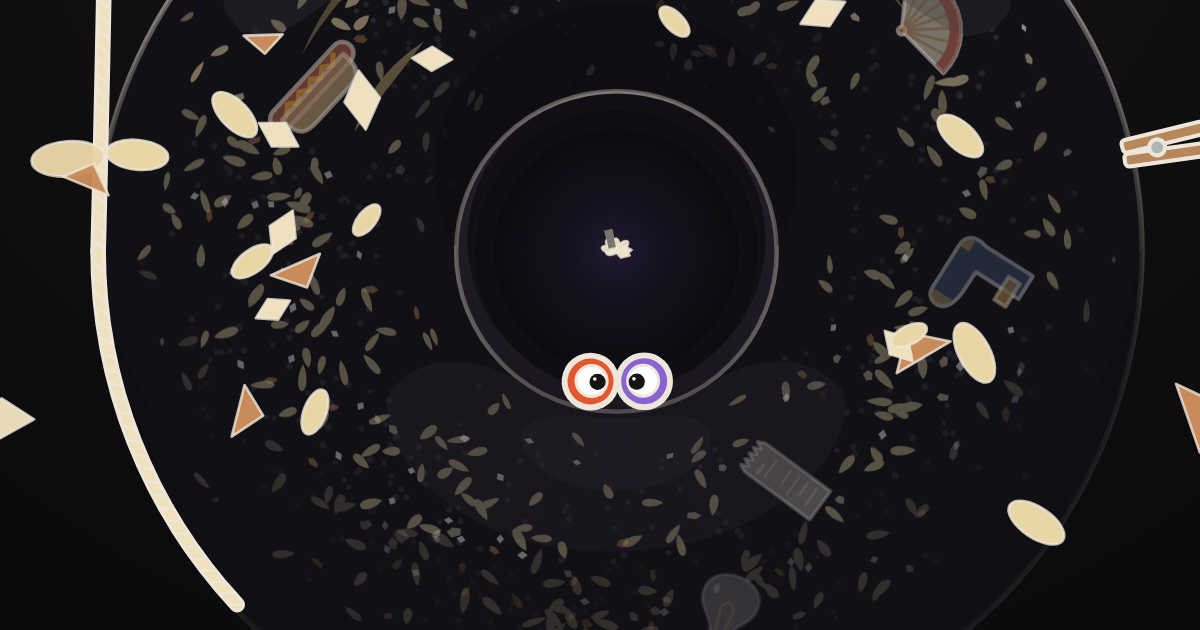
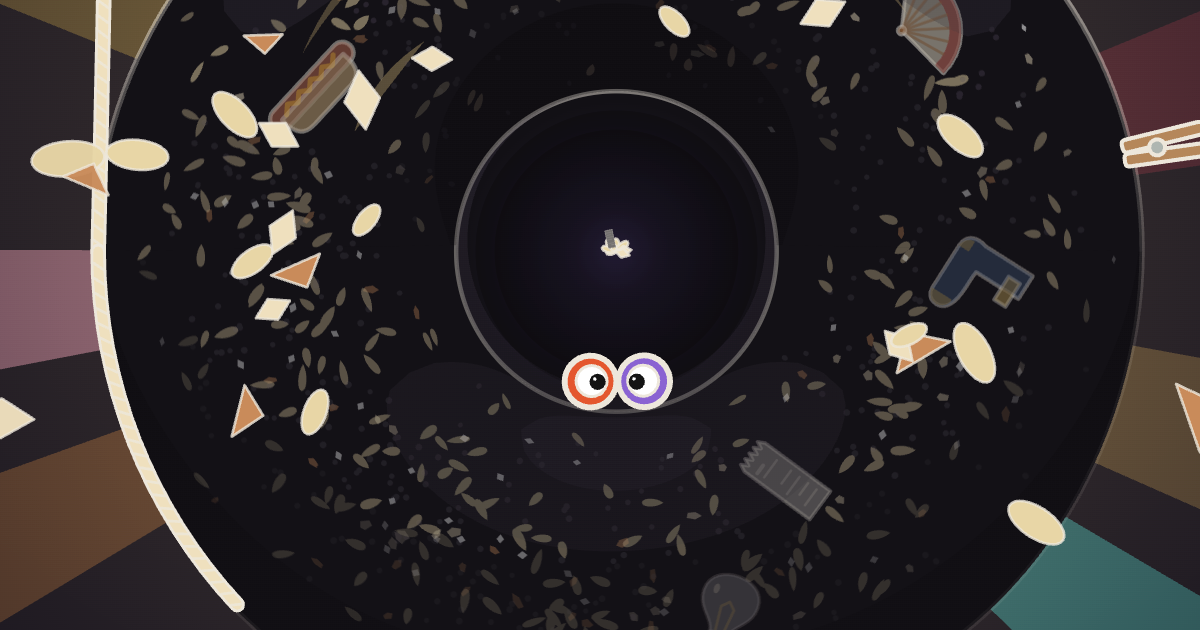
craft(everything): in the peak, the dark fills with every colour as the bagel gives everything back
The loudest passage of the cue was the darkest picture in the show. Now each thing the bagel gives back comes out
with a beam of its own life's colour, round the whole circle, flaring and settling to a glow that stays, until the
bagel stands black in a radiance of every life she has been; as it closes into the washer's window, the radiance
draws in and dims. The beams are clipped to the frame (the close shots had cost 14 ms a frame). The share card,
taken in the peak, is rendered again, and so is its quadrant of the Shows page's card.

Changed region(s): [[0.0, 0.0, 0.2158, 1.0], [0.8017, 0.0, 1.0, 1.0]]

diff --git a/apps/rube/src/shows/versions/come-recover/all-at-once/void/radiance.ts b/apps/rube/src/shows/versions/come-recover/all-at-once/void/radiance.ts
@@ -1,0 +1,117 @@
+import { mixHex } from '../../../../../parts'
+import { frame, scenery } from '../kit'
+import { DOJO, HIBACHI, HOME, HOTDOG, ROCKS, STAR, VOID } from '../worlds'
+import { BAGEL, bagelPose, THING_WORLD } from './bagel'
+import { GIVEN, RELEASE, T_OUT, turnAt } from './peakClock'
+
+/**
+ * The dark fills with every colour.
+ *
+ * The peak is the loudest passage of the cue, and it was the darkest picture in the show: the black bagel in the
+ * black. Now, as the bagel gives back everything it swallowed, each thing comes out of the hole with a beam of its
+ * own life's colour from the hole: a trophy and a flashbulb in the carpet's red and gold, a fan
+ * and a shoe in the dojo's lacquer, the mustard and the hot dog in their pink and yellow, Raccacoonie's spatula and
+ * shrimp in the griddle's flame, a pebble in the canyon's sand, the laundromat's socks and receipts in its lantern
+ * gold and tile. Each beam flares as its thing bursts out and settles to a glow that stays, so beat by beat the
+ * dark behind the bagel fills, until it stands black against a radiance of every life she has been. The beams wheel
+ * slowly with the bagel as it turns back. When the line runs out and the bagel coasts and closes into a washer's
+ * window, they draw in toward it and dim, and through the window it is home.
+ *
+ * Drawn behind the bagel, so it stands backlit in them and they come from behind its rim. Each beam is a narrow
+ * share of the frame and they rise one a beat, a little under 2.5 a second, so the frame's light never swings as a
+ * flash does; the settled glow is soft.
+ */
+
+const COLOUR: Record<string, string[]> = {
+  laundromat: [HOME.gold, mixHex(HOME.tile, HOME.gold, 0.25)],
+  premiere: [STAR.carpet, STAR.gold],
+  dojo: [DOJO.lacquer, DOJO.gold],
+  hotdog: ['#F59AB0', HOTDOG.mustard],
+  hibachi: [HIBACHI.flame, HIBACHI.flameHot],
+  rocks: [ROCKS.canyon, ROCKS.sand],
+  everywhere: ['#E85FD0', '#3FE0D0'],
+}
+
+interface Beam {
+  at: number
+  dir: number
+  color: string
+  /** How wide it opens, radians either side of its line. */
+  half: number
+}
+
+const BEAMS: Beam[] = GIVEN.map((g, i) => {
+  const set = COLOUR[THING_WORLD[g.thing]] ?? COLOUR.laundromat
+  // Round the whole circle, a golden step each, so the radiance fills all the way round and not only the side things
+  // are thrown to.
+  return { at: g.at, dir: -Math.PI / 2 + i * 2.399963, color: set[i % set.length], half: 0.075 + 0.05 * ((i * 0.618) % 1) }
+})
+const FROM = BEAMS.length ? BEAMS[0].at - 0.1 : Infinity
+
+const rgba = (hex: string, a: number): string => {
+  const n = parseInt(hex.slice(1), 16)
+  return `rgba(${(n >> 16) & 255}, ${(n >> 8) & 255}, ${n & 255}, ${Math.max(0, Math.min(1, a))})`
+}
+const ss = (u: number): number => {
+  const x = Math.max(0, Math.min(1, u))
+  return x * x * (3 - 2 * x)
+}
+
+/** A beam's strength `x` seconds after its thing came out: a flare that settles to a glow that stays. */
+const strength = (x: number): number => (x <= 0 ? 0 : ss(x / 0.12) * (0.45 + 0.55 * Math.exp(-x / 0.55)))
+
+/** How much of the radiance is left as the bagel coasts and closes into the window: it draws in and dims. */
+const closing = (t: number): number => ss((t - RELEASE) / (T_OUT - RELEASE))
+
+export const radiance = scenery<null>({
+  name: 'radiance',
+  draw: (p, _s, c) => {
+    const t = c.t
+    if (t < FROM || t > T_OUT + 0.05) return
+    const pose = bagelPose(t)
+    const k = c.k
+    const f = frame(p, k)
+    const ctx = p.drawingContext as CanvasRenderingContext2D
+    const cx = pose.dx * k
+    const cy = pose.dy * k
+    // Far enough to leave the frame whatever the camera is doing.
+    const reach = Math.hypot(f.x1 - f.x0, f.y1 - f.y0) * k + BAGEL.r * pose.scale * k
+    const inner = BAGEL.hole * pose.scale * k
+    const close = closing(t)
+    const wheel = 0.22 * (turnAt(t) - turnAt(FROM))
+    ctx.save()
+    // Only what is in the frame is painted: the beams reach far past it.
+    ctx.beginPath()
+    ctx.rect(f.x0 * k, f.y0 * k, (f.x1 - f.x0) * k, (f.y1 - f.y0) * k)
+    ctx.clip()
+    ctx.globalCompositeOperation = 'screen'
+    for (const b of BEAMS) {
+      const a = strength(t - b.at) * (1 - 0.75 * close)
+      if (a <= 0.004) continue
+      const dir = b.dir - wheel
+      const half = b.half * (1 - 0.55 * close)
+      const len = reach * (1 - 0.6 * close)
+      const g = ctx.createRadialGradient(cx, cy, inner, cx, cy, len)
+      g.addColorStop(0, rgba(b.color, 0.85 * a))
+      g.addColorStop(0.35, rgba(b.color, 0.5 * a))
+      g.addColorStop(1, rgba(b.color, 0))
+      ctx.fillStyle = g
+      ctx.beginPath()
+      ctx.moveTo(cx, cy)
+      ctx.arc(cx, cy, len, dir - half, dir + half)
+      ctx.closePath()
+      ctx.fill()
+    }
+    // A soft bloom of all of them together round the bagel, so the dark round it is lit and not only striped.
+    const lit = Math.min(1, BEAMS.filter((b) => t > b.at).length / 12) * (1 - 0.6 * close)
+    if (lit > 0.01) {
+      const R = BAGEL.r * pose.scale * k
+      const g = ctx.createRadialGradient(cx, cy, R * 0.6, cx, cy, R * 2.6)
+      g.addColorStop(0, rgba(mixHex(VOID.rimLight, VOID.glow, 0.35), 0.22 * lit))
+      g.addColorStop(1, rgba(VOID.glow, 0))
+      ctx.fillStyle = g
+      ctx.fillRect(f.x0 * k, f.y0 * k, (f.x1 - f.x0) * k, (f.y1 - f.y0) * k)
+    }
+    ctx.restore()
+  },
+})

diff --git a/apps/rube/src/shows/versions/come-recover/all-at-once/score.ts b/apps/rube/src/shows/versions/come-recover/all-at-once/score.ts
@@ -24,6 +24,7 @@ import { kindness, KINDNESS_AT } from './home/kindness'
 import { GIFT_LOOKS } from './home/kindness-draw'
 import { ledge } from './rocks/ledge'
 import { film, LOOKS, type Look } from './film'
+import { radiance } from './void/radiance'
 import { JOY_EYE, peak, PEAK_AT } from './void/peak'
 import { finale, FINALE_AT } from './home/finale'
 import { FIRST as LIVES_FIRST, LAST_OUT as LIVES_OUT } from './home/finale-lives'
@@ -89,7 +90,14 @@ const SETS = (roomState: RoomState): Partial<Record<WorldKey, WorldSet>> => ({
     after: [standing(credits, 0, 0, box(-12, -8, 44, 4, 2), null, DURATION)],
   },
   // Jobu's bagel, where the pull draws everything in and the peak spins it all back out.
-  void: { scenery: [standing(bagel, BAGEL.at[0], BAGEL.at[1], box(BAGEL.at[0] - 24, BAGEL.at[1] - 24, BAGEL.at[0] + 24, BAGEL.at[1] + 24, 2), null, DURATION)], after: [] },
+  // Behind it, in the peak, the radiance of every life it gives back.
+  void: {
+    scenery: [
+      standing(radiance, BAGEL.at[0], BAGEL.at[1], box(BAGEL.at[0] - 24, BAGEL.at[1] - 24, BAGEL.at[0] + 24, BAGEL.at[1] + 24, 2), null, DURATION),
+      standing(bagel, BAGEL.at[0], BAGEL.at[1], box(BAGEL.at[0] - 24, BAGEL.at[1] - 24, BAGEL.at[0] + 24, BAGEL.at[1] + 24, 2), null, DURATION),
+    ],
+    after: [],
+  },
 })
 
 /**

diff --git a/apps/rube/src/shows/versions/come-recover/ALL_AT_ONCE.md b/apps/rube/src/shows/versions/come-recover/ALL_AT_ONCE.md
@@ -150,7 +150,7 @@ Times are show seconds. The fight's pulse is `fight(k)` (142 to 200 s), the fall
 | 200.16 | the drop | the rocks | Silence. Two stones on a ledge over a vast canyon, lumpy and flat-bottomed, the colour drained out of them: Evelyn's with her eye, Joy's beside it, where Waymond was. Pebbles fall from the lip and take forever to land. Joy's stone teeters forward on its flat underside (207.56, 208.36) and rolls out to the brink (209.96). On 213.96, the strongest note in the quiet, it goes over. Evelyn rolls to where she was (214.76), flinches back (216.36), and goes after her (219.56). |
 | 220 to 241.8 | a soft swell | the rocks | The long way down, on the beats, ledge by ledge. The camera goes over the brink after her and stays close, the wall's strata going up past. On a bench halfway down Joy is waiting, and Evelyn comes to rest against her (226.56) in a close two-shot, looking at her: where the stones touch, each one's colour comes back first and spreads over it. Joy goes on (227.76) and the camera goes down the gorge with them, Joy a bound ahead. On the long talus it draws back for a breath, the canyon most of the frame and the two of them small on the scree, then comes in again for the last bounds. At the bottom a dark ring lies in the sand: the bagel. Joy drops into it, and on 241.76 Evelyn follows. |
 | 241.76 | a breath | the dark | They fall into the bagel's hole. Joy is drawn up into its dark, shrinking and dimming, and Evelyn holds her at the lip. |
-| 247.35 | the peak | the dark | A line comes down from a pulley high above: Waymond's. He drops as the counterweight, and on every beat the line turns the bagel backwards, a ratchet kick of the whole crust. On 118½ Evelyn heaves back, and on 122 Joy pops out of the dark. From 123 everything the bagel swallowed bursts back out of the hole, one thing a beat, last in first out, each with a googly eye, and a spray of seeds goes out on every eighth. On 136 an eye rises out of the hole and lands on Joy. The bagel shrinks as it gives, until its hole is exactly a washer's window, and the hole fills with glass light. |
+| 247.35 | the peak | the dark | A line comes down from a pulley high above: Waymond's. He drops as the counterweight, and on every beat the line turns the bagel backwards, a ratchet kick of the whole crust. On 118½ Evelyn heaves back, and on 122 Joy pops out of the dark. From 123 everything the bagel swallowed bursts back out of the hole, one thing a beat, last in first out, each with a googly eye, and a spray of seeds goes out on every eighth. On 136 an eye rises out of the hole and lands on Joy. The bagel shrinks as it gives, until its hole is exactly a washer's window, and the hole fills with glass light. As each thing comes out, a beam of its own life's colour shoots from the hole and stays: the carpet's red and gold, the dojo's lacquer, the hot dog's pink and mustard, the griddle's flame, the canyon's sand, the laundromat's lantern gold. Beat by beat the dark fills, until the bagel stands black in a radiance of every life she has been, wheeling slowly as it turns back. As it closes into the window, the radiance draws in and dims. |
 | 264.14 | the peak's end | home | Through the window: they are inside the drum of the washer by the door, where the morning started. The cycle ends, the door swings open (268.39), and they drop out. Waymond leaps the foot lever and touches Joy, and the touch runs through to Evelyn. |
 | 275.2 | a hush | home | The camera closes slowly on the three of them together at the washer's foot, the window's glow behind them, and holds. Joy nestles against her mother on a soft note (279.84). |
 | 282.2 | home's pulse | home | The family portrait. A wooden box camera with a bellows stands on a tripod by the door, facing them. Joy and Waymond straighten up on two small hops. Evelyn rolls to a foot switch under the window and presses it on 286.20: a string of lanterns over the family lights one a beat, and the camera draws back to take in the whole portrait. The self-timer's red lamp blinks faster and faster while she hurries back beside Joy (290.38). |
@@ -785,6 +785,15 @@ The notes went back to the builders who made each part, who still had their cont
     A panel drawn at the skins' finest detail (34 px a cell or more, so the first splits on a large stage) keeps the
     whole look.
   - The checks' band for widescreen now covers the surf's glimpses of the movie star's and the dojo's lives.
+- **A director's pass: the dark fills with every colour.** The peak is the loudest passage of the cue, and it was the
+  darkest picture in the show: the black bagel in the black, the same frame for 17 s. Now everything the bagel gives
+  back comes out with a beam of its life's colour behind it (`void/radiance.ts`, by `THING_WORLD`), round the whole
+  circle a golden step apart, so the radiance fills on every side and not only where things are thrown. Each beam
+  flares as it comes and settles to a glow that stays, and they wheel with a fifth of the bagel's turn. When the line
+  runs out they draw in and dim, and the hole's window light takes over for the cut home.
+  - They rise one a beat, each a narrow share of the frame, so the frame's light never swings as a flash does.
+  - Measured in Chrome at 1440×810: in the peak's close shots (252 s) the beams reached far past the frame and cost
+    14 ms a frame. They are clipped to the frame now, and every stretch of the peak is at 16.5–16.8 ms.
 
 ## The looks
 
@@ -929,7 +938,7 @@ to 332, the washer's window last; the googly eyes go with it (`endDarkAt` in `cr
     fireworks drive. The parts are `laundromat`, `dryer`, `kindness` and `finale`.
   - `star/premiere`, `dojo/dummies`, `hotdog/fingers`, `hibachi/raccacoonie`, `rocks/ledge`.
   - `multi/`: `skins.ts` is thirteen worlds as skins for one seesaw. Parts: `surf`, `mosaic`.
-  - `void/`: `bagel.ts` is the everything bagel, driven by the pull and then by the peak, plus the drawings of the
+  - `void/`: `radiance.ts` is the peak's beams of every life's colour, behind the bagel. `bagel.ts` is the everything bagel, driven by the pull and then by the peak, plus the drawings of the
     things it swallows. Parts: `pull`, `peak`.
 - **The shared files.** The hooks in `registry.ts`, `main.ts`, `styles.css` and `engine.ts` came in with Liftoff
   (PR #88):
